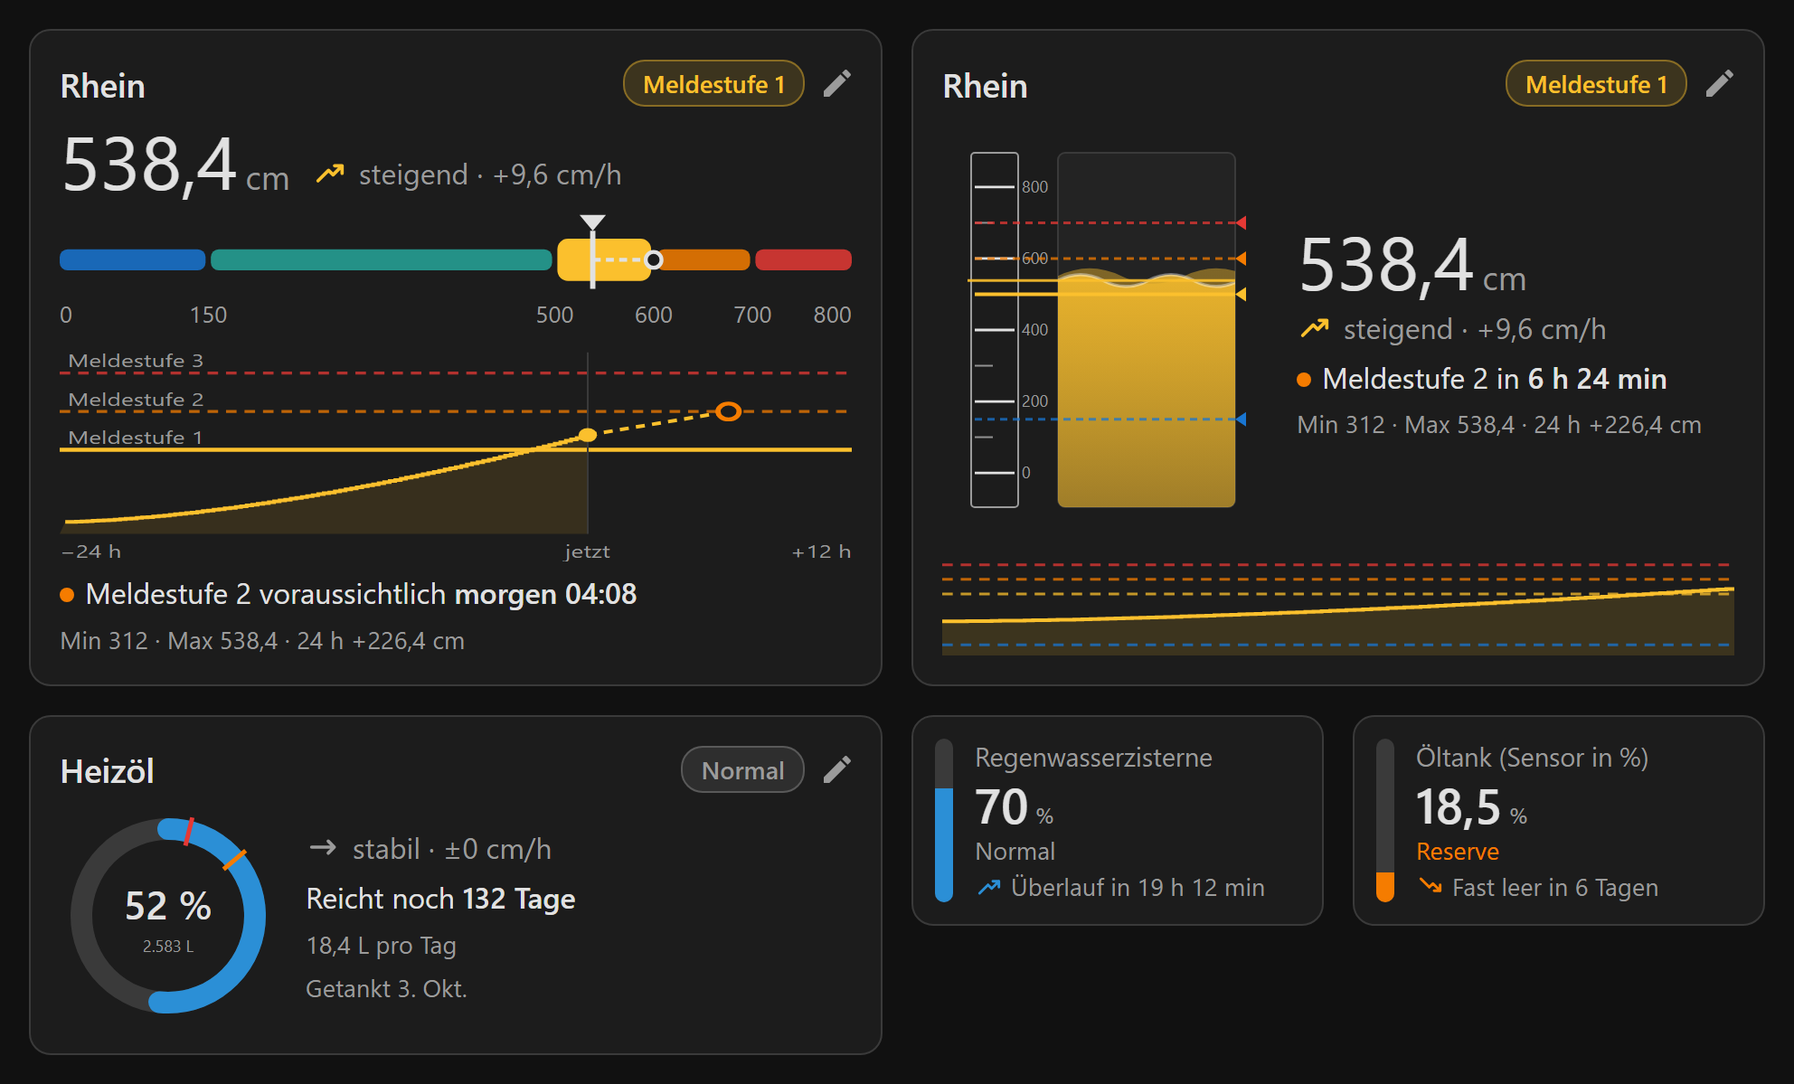
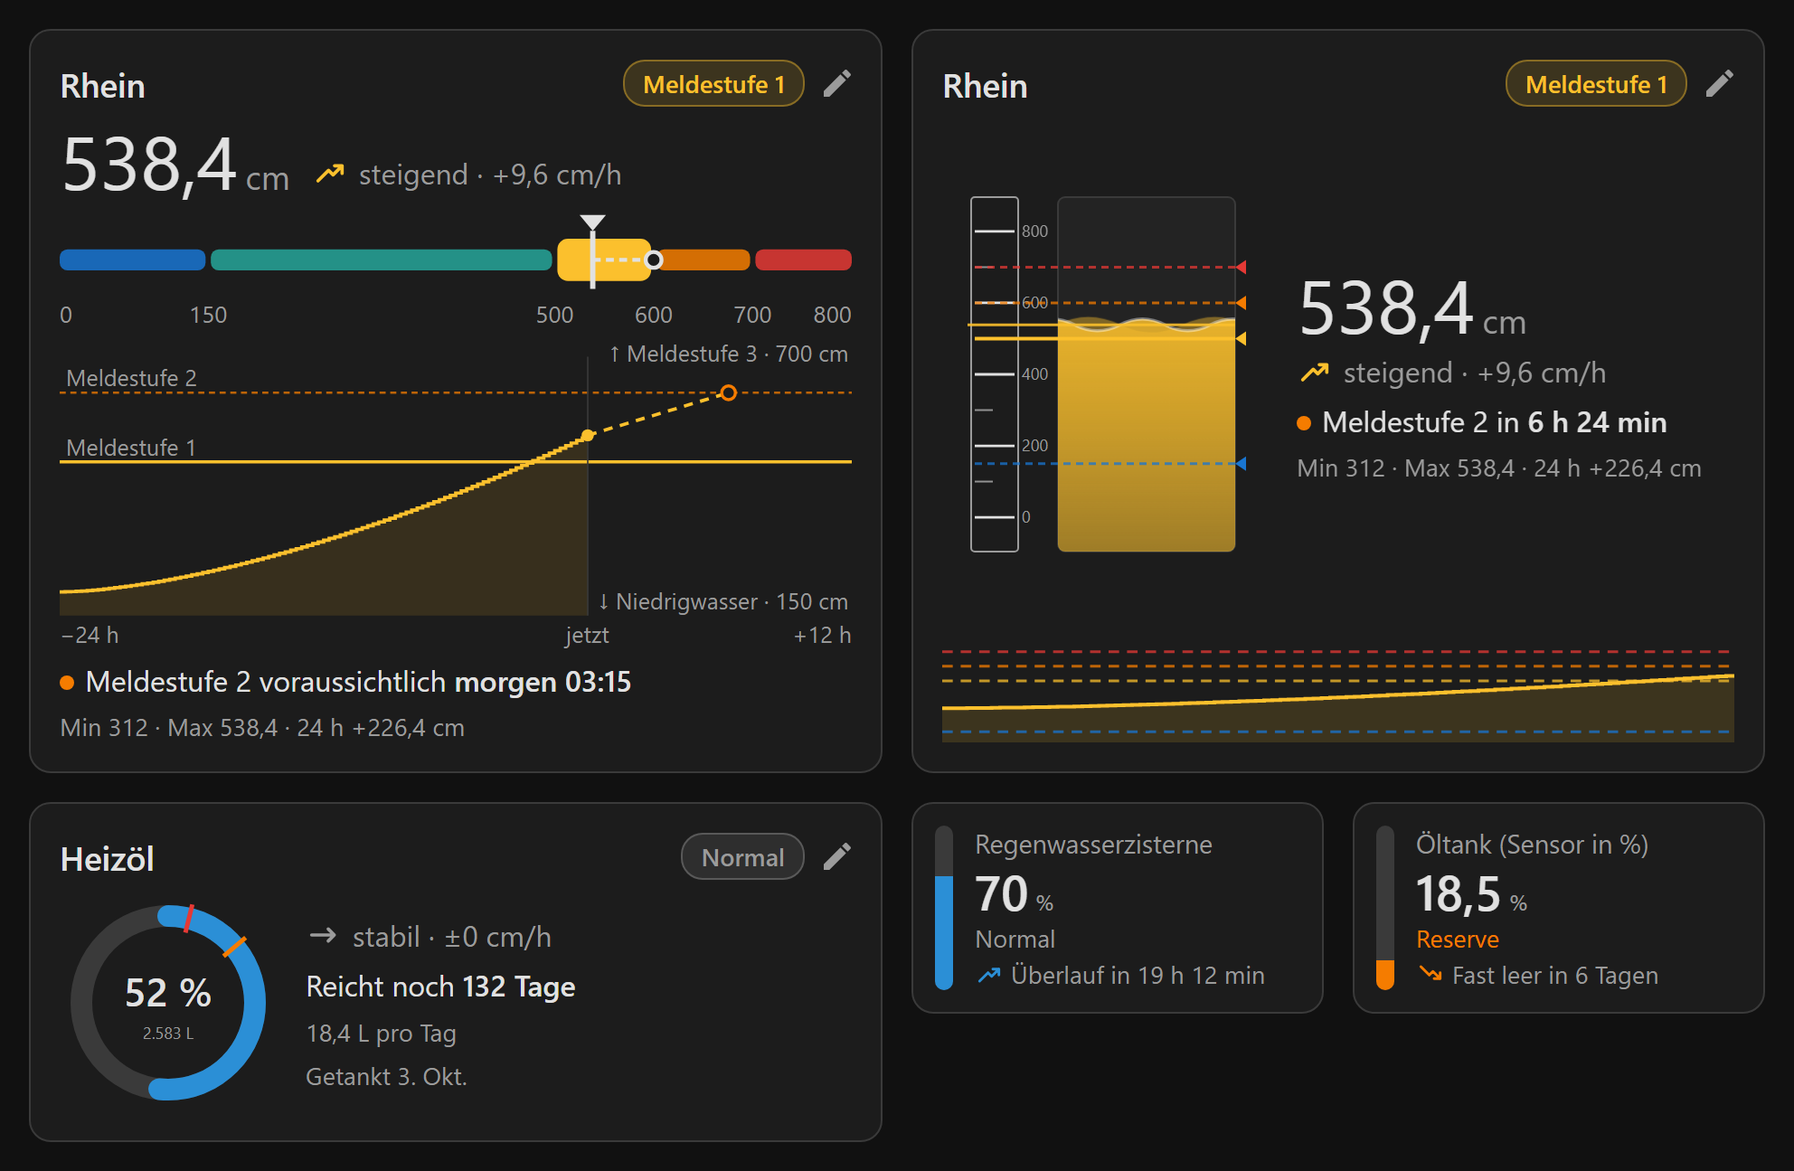
Level Watch 0.8.0: forecast chart with hover values and better scale
The forecast chart now scales to the readings instead of stretching to
every nearby threshold, shows the nearest thresholds outside the range
as hints at the edge, labels only lines that do not collide and keeps
its aspect ratio. Hovering (or tapping) shows the time, the value and
the stage at that moment, and the forecast to the right of "now".

diff --git a/custom_components/level_watch/www/level-watch-card.js b/custom_components/level_watch/www/level-watch-card.js
@@ -4,7 +4,7 @@
  * the same Level Watch device works too and is resolved to that sensor.
  */
 
-const CARD_VERSION = "0.7.7";
+const CARD_VERSION = "0.8.0";
 const STYLES = ["forecast", "classic", "ring", "compact"];
 const NORMAL_WATER = "#2b8fd6";
 
@@ -22,7 +22,7 @@ const TEXT = {
     style: "Stil", style_forecast: "Prognose", style_classic: "Klassisch (Pegellatte / Tank)",
     style_ring: "Ring", style_compact: "Kompakt", forecast_hours: "Prognose (Stunden)",
     now: "jetzt", expected: "voraussichtlich", today: "heute", tomorrow: "morgen",
-    until: "bis", refilled: "Getankt", in_short: "in",
+    until: "bis", refilled: "Getankt", in_short: "in", forecast_tip: "Prognose",
     edit_thresholds: "Schwellen bearbeiten", add_threshold: "Schwelle hinzufügen",
     save: "Speichern", cancel: "Abbrechen", saving: "Speichert …", delete: "Löschen",
     f_name: "Name", f_value: "Wert", f_above: "steigt auf/über", f_below: "fällt auf/unter",
@@ -48,7 +48,7 @@ const TEXT = {
     style: "Style", style_forecast: "Forecast", style_classic: "Classic (gauge / tank)",
     style_ring: "Ring", style_compact: "Compact", forecast_hours: "Forecast (hours)",
     now: "now", expected: "expected", today: "today", tomorrow: "tomorrow",
-    until: "until", refilled: "Refilled", in_short: "in",
+    until: "until", refilled: "Refilled", in_short: "in", forecast_tip: "Forecast",
     edit_thresholds: "Edit thresholds", add_threshold: "Add threshold",
     save: "Save", cancel: "Cancel", saving: "Saving …", delete: "Delete",
     f_name: "Name", f_value: "Value", f_above: "rises to/above", f_below: "falls to/below",
@@ -271,6 +271,7 @@ class LevelWatchCard extends HTMLElement {
     this._lastCtx = c;
     this._cardEl.innerHTML = `
       <ha-card class="${style}" style="--lw-color:${esc(color)}">${content}</ha-card>`;
+    this._bindChart();
     this._cardEl.querySelector("ha-card").addEventListener("click", (event) => {
       if (event.target.closest(".edit")) {
         event.stopPropagation();
@@ -606,73 +607,183 @@ class LevelWatchCard extends HTMLElement {
 
   _forecastChart(c) {
     const { a, level, hasLevel, color, t } = c;
+    const unit = unitOf(a);
     const hist = this._historyHours();
     const fh = Number(this._config.forecast_hours) || 12;
-    const pts = hist ? this._history || [] : [];
     const now = Date.now();
     const t0 = now - (hist || 6) * 3600e3;
     const t1 = now + fh * 3600e3;
+    const pts = (hist ? this._history || [] : []).filter((p) => p.t >= t0 - 3600e3);
     let proj = null;
     if (hasLevel && Number.isFinite(a.rate) && (a.trend === "rising" || a.trend === "falling")) {
       const reach = Number.isFinite(a.hours_to_next) && a.hours_to_next <= fh;
-      const h = reach ? a.hours_to_next : fh;
-      proj = { h, v: level + a.rate * h, reach };
+      const hrs = reach ? a.hours_to_next : fh;
+      proj = { h: hrs, v: level + a.rate * hrs, reach };
     }
-    const values = pts.map((p) => p.v);
+    const values = pts.filter((p) => p.t >= t0).map((p) => p.v);
     if (hasLevel) values.push(level);
     if (proj) values.push(proj.v);
     if (!values.length) return "";
+
+    // Scale to the readings, so the curve uses the full height. Thresholds
+    // join only when they lie close by, or when the forecast reaches them.
     let lo = Math.min(...values);
     let hi = Math.max(...values);
-    if (hi - lo < 10) { const m = (hi + lo) / 2; lo = m - 5; hi = m + 5; }
-    const span = hi - lo;
+    const minSpan = unit === "%" ? 4 : 10;
+    if (hi - lo < minSpan) { const m = (hi + lo) / 2; lo = m - minSpan / 2; hi = m + minSpan / 2; }
+    const pad = (hi - lo) * 0.12;
+    lo -= pad;
+    hi += pad;
     const ths = a.thresholds || [];
     const next = ths.find((th) => th.name === a.next_threshold);
+    const band = (hi - lo) * 0.15;
     for (const th of ths) {
-      if (th === next || (th.value >= lo - span * 0.5 && th.value <= hi + span * 0.5)) {
-        lo = Math.min(lo, th.value);
-        hi = Math.max(hi, th.value);
+      if ((proj?.reach && th === next) || (th.value >= lo - band && th.value <= hi + band)) {
+        lo = Math.min(lo, th.value - pad / 2);
+        hi = Math.max(hi, th.value + pad / 2);
       }
     }
-    lo -= (hi - lo) * 0.08;
-    hi += (hi - lo) * 0.08;
-    const w = 300;
-    const h = 110;
-    const x = (ms) => ((ms - t0) / (t1 - t0)) * w;
-    const y = (v) => h - 14 - ((v - lo) / (hi - lo)) * (h - 22);
+
+    const W = 520;
+    const H = 200;
+    const top = 16;
+    const bottom = 178;
+    const x = (ms) => ((ms - t0) / (t1 - t0)) * W;
+    const y = (v) => bottom - ((v - lo) / (hi - lo)) * (bottom - top);
     const nx = x(now);
+    const fmt = new Intl.NumberFormat(this._hass?.locale?.language || "en", { maximumFractionDigits: 1 });
+
     let d = "";
-    pts.filter((p) => p.t >= t0).forEach((p, i) => {
-      d += i ? ` H${x(p.t).toFixed(1)} V${y(p.v).toFixed(1)}` : `M${x(p.t).toFixed(1)} ${y(p.v).toFixed(1)}`;
+    pts.forEach((p, i) => {
+      const px = Math.max(0, x(p.t)).toFixed(1);
+      d += i ? ` H${px} V${y(p.v).toFixed(1)}` : `M${px} ${y(p.v).toFixed(1)}`;
     });
     if (hasLevel) d += d ? ` H${nx.toFixed(1)} V${y(level).toFixed(1)}` : `M${nx.toFixed(1)} ${y(level).toFixed(1)}`;
-    const area = d ? `${d} V${h - 14} H${x(Math.max(t0, pts[0]?.t ?? now)).toFixed(1)} Z` : "";
-    const lines = ths.filter((th) => th.value >= lo && th.value <= hi).map((th) => {
-      const ty = y(th.value);
-      return hoverLine(this._thrTip(th, a), 0, ty, w, ty,
-        `<line x1="0" x2="${w}" y1="${ty}" y2="${ty}" stroke="${esc(th.color)}" class="thr ${th.active ? "on" : ""}"/>`
-        + `<text x="3" y="${ty - 3}" class="zl" fill="${esc(th.color)}">${esc(th.name)}</text>`);
-    }).join("");
+    const startX = pts.length ? Math.max(0, x(pts[0].t)) : nx;
+    const area = d ? `${d} V${bottom} H${startX.toFixed(1)} Z` : "";
+
+    // Threshold lines inside the range; a name only where it does not
+    // collide with the one above (the tooltip still names every line).
+    let lastLabel = -Infinity;
+    const lines = ths
+      .filter((th) => th.value >= lo && th.value <= hi)
+      .sort((p, q) => q.value - p.value)
+      .map((th) => {
+        const ty = y(th.value);
+        let label = "";
+        if (ty - lastLabel >= 18) {
+          label = `<text x="4" y="${(ty - 4).toFixed(1)}" class="cl" fill="${esc(th.color)}">${esc(th.name)}</text>`;
+          lastLabel = ty;
+        }
+        return hoverLine(this._thrTip(th, a), 0, ty, W, ty,
+          `<line x1="0" x2="${W}" y1="${ty}" y2="${ty}" stroke="${esc(th.color)}" class="thr ${th.active ? "on" : ""}"/>${label}`);
+      }).join("");
+
+    // The nearest threshold above and below the range, as a hint at the edge.
+    const above = ths.filter((th) => th.value > hi).sort((p, q) => p.value - q.value)[0];
+    const below = ths.filter((th) => th.value < lo).sort((p, q) => q.value - p.value)[0];
+    const hint = (th, yy, arrow) => th
+      ? `<g class="hov"><title>${esc(this._thrTip(th, a))}</title><text x="${W - 2}" y="${yy}" text-anchor="end" class="cl" fill="${esc(th.color)}">${arrow} ${esc(th.name)} · ${fmt.format(th.value)} ${esc(unit)}</text></g>`
+      : "";
+
     let projSvg = "";
     if (proj) {
       const px = x(now + proj.h * 3600e3);
       const py = y(proj.v);
       projSvg = `<line x1="${nx}" y1="${y(level)}" x2="${px}" y2="${py}" stroke="${esc(color)}" class="projline"/>`;
       if (proj.reach && next) {
-        projSvg += `<circle cx="${px}" cy="${py}" r="4" fill="var(--card-background-color, #fff)" stroke="${esc(next.color)}" stroke-width="2"/>`;
+        projSvg += `<circle cx="${px}" cy="${py}" r="4.5" fill="var(--card-background-color, #fff)" stroke="${esc(next.color)}" stroke-width="2"/>`;
       }
     }
-    return `<svg class="chart" viewBox="0 0 ${w} ${h}" preserveAspectRatio="none" aria-hidden="true">
-      ${area ? `<path d="${area}" fill="${esc(color)}" opacity="0.12"/>` : ""}
-      ${lines}
-      <line x1="${nx}" x2="${nx}" y1="4" y2="${h - 14}" class="nowline"/>
-      ${d ? `<path d="${d}" fill="none" stroke="${esc(color)}" stroke-width="2" vector-effect="non-scaling-stroke"/>` : ""}
-      ${projSvg}
-      ${hasLevel ? `<circle cx="${nx}" cy="${y(level)}" r="3.5" fill="${esc(color)}"/>` : ""}
-      <text x="0" y="${h - 2}" class="zl">−${hist || 6} h</text>
-      <text x="${nx}" y="${h - 2}" class="zl" text-anchor="middle">${esc(t.now)}</text>
-      <text x="${w}" y="${h - 2}" class="zl" text-anchor="end">+${fh} h</text>
-    </svg>`;
+
+    // Everything the pointer handler needs to read a value at a position.
+    this._chart = { t0, t1, now, W, H, top, bottom, lo, hi, pts, level: hasLevel ? level : null,
+      rate: proj ? a.rate : 0, projH: proj ? proj.h : 0, unit, ths, color };
+
+    return `<div class="chartwrap">
+      <svg class="chart" viewBox="0 0 ${W} ${H}" aria-hidden="true">
+        ${area ? `<path d="${area}" fill="${esc(color)}" opacity="0.12"/>` : ""}
+        ${lines}
+        <line x1="${nx}" x2="${nx}" y1="${top - 8}" y2="${bottom}" class="nowline"/>
+        ${d ? `<path d="${d}" fill="none" stroke="${esc(color)}" stroke-width="2.2"/>` : ""}
+        ${projSvg}
+        ${hasLevel ? `<circle cx="${nx}" cy="${y(level)}" r="4" fill="${esc(color)}"/>` : ""}
+        ${hint(above, 11, "↑")}
+        ${hint(below, bottom - 4, "↓")}
+        <text x="0" y="${H - 4}" class="cl">−${hist || 6} h</text>
+        <text x="${nx}" y="${H - 4}" class="cl" text-anchor="middle">${esc(t.now)}</text>
+        <text x="${W}" y="${H - 4}" class="cl" text-anchor="end">+${fh} h</text>
+        <g class="cross" style="display:none">
+          <line class="crossline" y1="${top - 6}" y2="${bottom}"/>
+          <circle class="crossdot" r="5"/>
+        </g>
+        <rect class="chit" x="0" y="0" width="${W}" height="${bottom + 4}" fill="transparent"/>
+      </svg>
+      <div class="ctip" style="display:none"></div>
+    </div>`;
+  }
+
+  /** Value of the history (or the forecast) at a point in time. */
+  _chartValueAt(ms) {
+    const ch = this._chart;
+    if (ms > ch.now) {
+      if (ch.level === null) return null;
+      const h = Math.min((ms - ch.now) / 3600e3, ch.projH || 0);
+      return ch.level + (ch.rate || 0) * h;
+    }
+    let v = null;
+    for (const p of ch.pts) {
+      if (p.t > ms) break;
+      v = p.v; // the history is a step line: a value holds until the next one
+    }
+    return v ?? ch.pts[0]?.v ?? ch.level;
+  }
+
+  _bindChart() {
+    const wrap = this._cardEl.querySelector(".chartwrap");
+    if (!wrap || !this._chart) return;
+    const svg = wrap.querySelector("svg");
+    const hit = wrap.querySelector(".chit");
+    const cross = wrap.querySelector(".cross");
+    const tip = wrap.querySelector(".ctip");
+    const t = TEXT[lang(this._hass)];
+    const loc = this._hass?.locale?.language || "en";
+    const show = (clientX) => {
+      const ch = this._chart;
+      const r = svg.getBoundingClientRect();
+      const px = Math.max(0, Math.min(ch.W, ((clientX - r.left) / r.width) * ch.W));
+      const ms = ch.t0 + (px / ch.W) * (ch.t1 - ch.t0);
+      const raw = this._chartValueAt(ms);
+      if (raw === null || !Number.isFinite(raw)) { hide(); return; }
+      // Round first, so the shown value and its stage always agree.
+      const v = Math.round(raw * 10) / 10;
+      const yy = ch.bottom - ((v - ch.lo) / (ch.hi - ch.lo)) * (ch.bottom - ch.top);
+      const line = cross.querySelector(".crossline");
+      line.setAttribute("x1", px);
+      line.setAttribute("x2", px);
+      const dot = cross.querySelector(".crossdot");
+      dot.setAttribute("cx", px);
+      dot.setAttribute("cy", Math.max(ch.top - 6, Math.min(ch.bottom, yy)));
+      dot.setAttribute("stroke", ch.color);
+      cross.style.display = "";
+      const at = new Date(ms);
+      const when = `${at.toLocaleDateString(loc, { weekday: "short", day: "numeric", month: "numeric" })} ${at.toLocaleTimeString(loc, { hour: "2-digit", minute: "2-digit" })}`;
+      const stage = stageAt(ch.ths, v);
+      const num = new Intl.NumberFormat(loc, { maximumFractionDigits: 1 }).format(v);
+      tip.innerHTML = `<div class="ctime">${ms > ch.now ? `${esc(t.forecast_tip)} · ` : ""}${esc(when)}</div>`
+        + `<div><b>${esc(num)} ${esc(ch.unit)}</b> <span style="color:${esc(stage ? stage.color : "var(--secondary-text-color)")}">● ${esc(stage ? stage.name : t.normal)}</span></div>`;
+      tip.style.display = "block";
+      const scale = r.width / ch.W;
+      const left = px * scale - tip.offsetWidth / 2;
+      tip.style.left = `${Math.max(0, Math.min(r.width - tip.offsetWidth, left))}px`;
+      tip.style.top = `${Math.max(0, yy * scale - tip.offsetHeight - 12)}px`;
+    };
+    const hide = () => { cross.style.display = "none"; tip.style.display = "none"; };
+    hit.addEventListener("pointermove", (ev) => show(ev.clientX));
+    hit.addEventListener("pointerdown", (ev) => show(ev.clientX));
+    hit.addEventListener("pointerleave", hide);
+    // Tapping the chart shows the value instead of opening the more-info dialog.
+    wrap.addEventListener("click", (ev) => ev.stopPropagation());
   }
 
   _when(hours, t) {
@@ -1266,9 +1377,20 @@ const STYLE = `<style>
   .markfill { fill: var(--primary-text-color); }
   .proj { stroke: var(--primary-text-color); stroke-width: 1.5; stroke-dasharray: 3 2; }
   .projdot { fill: var(--card-background-color, #fff); stroke: var(--primary-text-color); stroke-width: 1.5; }
-  .chart { width: 100%; height: 120px; display: block; }
-  .projline { stroke-width: 2; stroke-dasharray: 5 4; vector-effect: non-scaling-stroke; }
-  .nowline { stroke: var(--divider-color, #ccc); stroke-width: 1; vector-effect: non-scaling-stroke; }
+  .chartwrap { position: relative; }
+  .chart { width: 100%; height: auto; display: block; overflow: visible; }
+  .cl { font-size: 15px; fill: var(--secondary-text-color); }
+  .crossline { stroke: var(--secondary-text-color); stroke-width: 1; stroke-dasharray: 3 3; }
+  .crossdot { fill: var(--card-background-color, #fff); stroke-width: 2.5; }
+  .chit { cursor: crosshair; touch-action: pan-y; }
+  .ctip { position: absolute; pointer-events: none; z-index: 2; white-space: nowrap; font-size: 13px; line-height: 1.45;
+    background: var(--card-background-color, #fff); color: var(--primary-text-color);
+    border: 1px solid var(--divider-color, #ccc); border-radius: 8px; padding: 5px 9px;
+    box-shadow: 0 2px 8px rgba(0,0,0,.25); }
+  .ctip b { font-weight: 500; font-size: 1.1em; }
+  .ctime { color: var(--secondary-text-color); font-size: 0.9em; }
+  .projline { stroke-width: 2.2; stroke-dasharray: 6 5; }
+  .nowline { stroke: var(--divider-color, #ccc); stroke-width: 1; }
   .ringsvg { flex: 0 0 120px; width: 120px; height: 120px; }
   .ringbg { fill: none; stroke: var(--divider-color, #e0e0e0); stroke-width: 12; }
   .ringval { font-size: 22px; font-weight: 500; fill: var(--primary-text-color); }

diff --git a/dev/preview.html b/dev/preview.html
@@ -41,6 +41,18 @@
       attributes: { source_entity: "sensor.src", friendly_name: a.title + " Pegel", ...a } }];
   }
   const states = Object.fromEntries([
+    lvl("sensor.ebrach_pegel", 143, { title: "Rauhe Ebrach", kind: "water", reference_min: 100, reference_max: 400,
+      thresholds: [
+        { name: "Niedrigwasser", value: 100, direction: "below", color: "#e64a19", active: false },
+        { name: "Normal", value: 130, direction: "below", color: "#43a047", active: false },
+        { name: "Erhöht", value: 130, direction: "above", color: "#1e5bff", active: true },
+        { name: "Bach voll", value: 170, direction: "above", color: "#c0b31a", active: false },
+        { name: "Erste Wiese überflutet", value: 200, direction: "above", color: "#e6b800", active: false },
+        { name: "Zweite Wiese überflutet", value: 260, direction: "above", color: "#e07b00", active: false },
+        { name: "Hochwasser", value: 350, direction: "above", color: "#9c27b0", active: false },
+      ],
+      color: "#1e5bff", stage: "Erhöht", trend: "stable", rate: 0, quality: "ok",
+      min_24h: 143, max_24h: 155, change_24h: -12, decay: true }),
     lvl("sensor.rhein_pegel", 412, { title: "Rhein Köln", kind: "water", reference_min: 0, reference_max: 800,
       thresholds: flood.map((t) => ({ ...t, active: false })), color: "#26a69a", stage: null,
       trend: "rising", rate: 4.2, quality: "ok", min_24h: 380.5, max_24h: 412, change_24h: 31.5,
@@ -84,6 +96,13 @@
     if (!Number.isFinite(end)) return [];
     const now = Date.now() / 1000;
     const rows = [];
+    if (s.attributes.decay) {
+      // A flood wave running off over three days.
+      for (let i = 288; i >= 0; i--) {
+        rows.push({ s: (end + 62 * Math.exp(-(288 - i) / 56)).toFixed(1), lu: now - i * 900 });
+      }
+      return rows;
+    }
     for (let i = 96; i >= 0; i--) {
       const drift = (s.attributes.change_24h ?? (s.attributes.rate || 0) * 24) * (i / 96);
       rows.push({ s: (end - drift + Math.sin(i / 5) * 1.5).toFixed(1), lu: now - i * 900 });

diff --git a/dev/make_screenshots.py b/dev/make_screenshots.py
@@ -24,7 +24,7 @@ OUT = Path(__file__).resolve().parent.parent / "docs" / "screenshots"
 SCALE = 2
 SHOTS = {
     # name: (query, window width, window height)
-    "card-styles": ("shot=styles&theme=dark", 1000, 620),
+    "card-styles": ("shot=styles&theme=dark", 1000, 720),
     "tank-shapes": ("shot=tanks&theme=dark", 1140, 360),
     "threshold-editor": ("shot=editor&theme=light", 640, 860),
 }

diff --git a/custom_components/level_watch/const.py b/custom_components/level_watch/const.py
@@ -5,7 +5,7 @@ from __future__ import annotations
 from typing import Final
 
 DOMAIN: Final = "level_watch"
-VERSION: Final = "0.7.8"
+VERSION: Final = "0.8.0"
 CARD_URL: Final = "/level_watch/level-watch-card.js"
 
 # Basic settings

diff --git a/CHANGELOG.de.md b/CHANGELOG.de.md
@@ -6,6 +6,17 @@ Alle wichtigen Änderungen an Level Watch. Das Format folgt [Keep a Changelog](h
 
 Die Versionen 0.1.0 bis 0.5.0 waren Entwicklungsschritte ohne GitHub-Release. Die erste Version, die du über HACS installieren kannst, ist 0.6.0.
 
+## [0.8.0] - 2026-11-23
+
+### Neu
+- Karte (Stil Prognose): Fährst du mit der Maus über das Diagramm oder tippst am Handy darauf, siehst du Zeitpunkt, Wert und Stufe zu diesem Zeitpunkt. Rechts von „jetzt“ zeigt der Tooltip die Prognose.
+- Karte (Stil Prognose): Schwellen außerhalb des Diagramms erscheinen als Hinweis am Rand, zum Beispiel „↑ Zweite Wiese überflutet · 260 cm“.
+
+### Geändert
+- Karte (Stil Prognose): Das Diagramm richtet sich nach den Messwerten, die Kurve nutzt die volle Höhe. Als Linie erscheinen nur Schwellen in der Nähe der Messwerte und die, die die Prognose erreicht.
+- Karte (Stil Prognose): Die Namen der Schwellen überlappen nicht mehr. Liegen zwei Linien zu dicht, bekommt nur eine eine Beschriftung; im Tooltip stehen weiterhin alle.
+- Karte (Stil Prognose): Das Diagramm behält sein Seitenverhältnis, statt gestreckt zu werden. Die Beschriftungen sind dadurch nicht mehr verzerrt.
+
 ## [0.7.8] - 2026-11-21
 
 ### Neu
@@ -106,6 +117,7 @@ Die Versionen 0.1.0 bis 0.5.0 waren Entwicklungsschritte ohne GitHub-Release. Di
 ### Neu
 - Erste Version: Pegel, Tendenz, Änderungsrate, Minimum, Maximum und Änderung über 24 Stunden sowie Datenqualität aus jedem Längensensor.
 
+[0.8.0]: https://github.com/berwil84afk/ha-level-watch/releases/tag/v0.8.0
 [0.7.8]: https://github.com/berwil84afk/ha-level-watch/releases/tag/v0.7.8
 [0.7.7]: https://github.com/berwil84afk/ha-level-watch/releases/tag/v0.7.7
 [0.7.6]: https://github.com/berwil84afk/ha-level-watch/releases/tag/v0.7.6

diff --git a/CHANGELOG.md b/CHANGELOG.md
@@ -6,6 +6,17 @@ All notable changes to Level Watch. The format follows [Keep a Changelog](https:
 
 Versions 0.1.0 to 0.5.0 were development steps without a GitHub release. The first release you can install through HACS is 0.6.0.
 
+## [0.8.0] - 2026-11-23
+
+### Added
+- Card (forecast style): hover over the chart, or tap it on a phone, to see the time, the value and the stage at that moment. To the right of "now" the tooltip shows the forecast.
+- Card (forecast style): thresholds outside the chart appear as a hint at the edge, for example "↑ Second meadow flooded · 260 cm".
+
+### Changed
+- Card (forecast style): the chart is scaled to the readings, so the curve uses the full height. Only thresholds close to the readings, or the one the forecast reaches, are drawn as lines.
+- Card (forecast style): threshold names no longer overlap. When two lines are too close, only one is labelled; the tooltip still names every line.
+- Card (forecast style): the chart keeps its proportions instead of being stretched, so the labels are no longer distorted.
+
 ## [0.7.8] - 2026-11-21
 
 ### Added
@@ -106,6 +117,7 @@ Versions 0.1.0 to 0.5.0 were development steps without a GitHub release. The fir
 ### Added
 - First version: level, trend, rate of change, minimum, maximum and change over 24 hours, and data quality from any length sensor.
 
+[0.8.0]: https://github.com/berwil84afk/ha-level-watch/releases/tag/v0.8.0
 [0.7.8]: https://github.com/berwil84afk/ha-level-watch/releases/tag/v0.7.8
 [0.7.7]: https://github.com/berwil84afk/ha-level-watch/releases/tag/v0.7.7
 [0.7.6]: https://github.com/berwil84afk/ha-level-watch/releases/tag/v0.7.6
